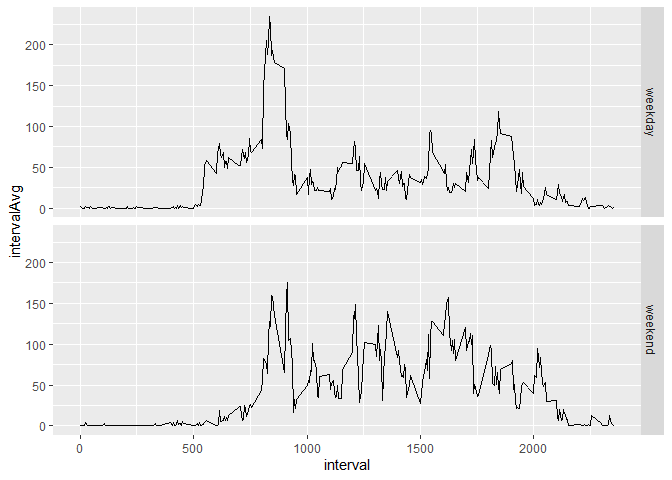
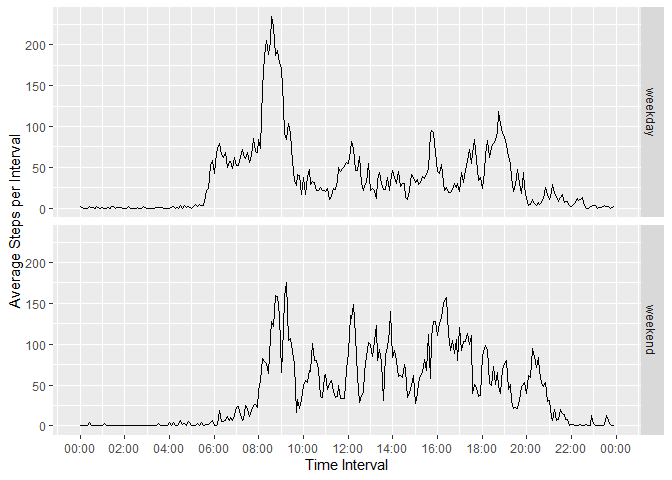
Corrected based on feedback from grading.

diff --git a/PA1_template.html b/PA1_template.html
@@ -388,6 +388,9 @@ dailySummary &lt;- summarise(fullData, dailySteps = sum(steps))
 avgDaySteps &lt;- mean(dailySummary$dailySteps, na.rm = TRUE)
 paste(&quot;Daily Average Steps: &quot;, round(avgDaySteps, 2))</code></pre>
 <pre><code>## [1] &quot;Daily Average Steps:  10766.19&quot;</code></pre>
+<p>Also what does the distribution of daily steps look like.</p>
+<pre class="r"><code>qplot(x = dailySteps, data = dailySummary)</code></pre>
[1 lines of base64/hex data omitted]
 </div>
 <div id="what-is-the-average-daily-activity-pattern" class="section level2">
 <h2>What is the average daily activity pattern?</h2>
@@ -435,7 +438,7 @@ imputedMetric &lt;- summary(imputedSummary$dailySteps)[3:4]
 xt &lt;- xtable(cbind(Raw.Data = rawMetric, Imputed.Data = imputedMetric))
 print(xt, type = &quot;html&quot;)</code></pre>
 <!-- html table generated in R 3.6.2 by xtable 1.8-4 package -->
-<!-- Fri May 15 12:28:04 2020 -->
+<!-- Sat May 16 09:55:31 2020 -->
 <table border="1">
 <tr>
 <th>
@@ -480,13 +483,15 @@ dow &lt;- NULL
 for (i in 1:length(fullData$date)) { dow[i] &lt;- dayID(fullData$date[i]) }
 fullDataDay &lt;- cbind(fullData, Weekday = dow)
 fullDataDay &lt;- group_by(fullDataDay, interval, Weekday)
-fullDataDay$interval &lt;- as_datetime(hm(fullDataDay$interval/100))
-avgWeekDay &lt;- summarise(fullDataDay, intervalAvg = mean(steps, na.rm = TRUE))</code></pre>
+avgWeekDay &lt;- summarise(fullDataDay, intervalAvg = mean(steps, na.rm = TRUE))
+avgWeekDay$interval &lt;- as_datetime(hm(avgWeekDay$interval/100))</code></pre>
 <p>Once this is done let’s compare them visually.</p>
 <pre class="r"><code>graf3 &lt;- qplot(x = interval, y = intervalAvg, data = avgWeekDay, 
-               facets = Weekday ~ ., geom = &quot;line&quot;)
+               facets = Weekday ~ ., geom = &quot;line&quot;) +
+            xlab(&quot;Time Interval&quot;) + scale_x_datetime(date_labels = &quot;%R&quot;, date_breaks = &quot;2 hours&quot;) +
+            ylab(&quot;Average Steps per Interval&quot;)
 print(graf3)</code></pre>
[2 lines of base64/hex data omitted]
 </div>
 
 

diff --git a/PA1_template.md b/PA1_template.md
@@ -37,6 +37,14 @@ paste("Daily Average Steps: ", round(avgDaySteps, 2))
 ## [1] "Daily Average Steps:  10766.19"
 ```
 
+Also what does the distribution of daily steps look like.
+
+
+```r
+qplot(x = dailySteps, data = dailySummary)
+```
+
+![](PA1_template_files/figure-html/dailyStepHist-1.png)<!-- -->
 
 ## What is the average daily activity pattern?
 Next let's review the average daily activity.
@@ -121,7 +129,7 @@ print(xt, type = "html")
 ```
 
 <!-- html table generated in R 3.6.2 by xtable 1.8-4 package -->
-<!-- Fri May 15 12:28:04 2020 -->
+<!-- Sat May 16 09:55:31 2020 -->
 <table border=1>
 <tr> <th>  </th> <th> Raw.Data </th> <th> Imputed.Data </th>  </tr>
   <tr> <td align="right"> Median </td> <td align="right"> 10765.00 </td> <td align="right"> 10766.19 </td> </tr>
@@ -142,8 +150,8 @@ dow <- NULL
 for (i in 1:length(fullData$date)) { dow[i] <- dayID(fullData$date[i]) }
 fullDataDay <- cbind(fullData, Weekday = dow)
 fullDataDay <- group_by(fullDataDay, interval, Weekday)
-fullDataDay$interval <- as_datetime(hm(fullDataDay$interval/100))
 avgWeekDay <- summarise(fullDataDay, intervalAvg = mean(steps, na.rm = TRUE))
+avgWeekDay$interval <- as_datetime(hm(avgWeekDay$interval/100))
 ```
 
 Once this is done let's compare them visually.
@@ -151,7 +159,9 @@ Once this is done let's compare them visually.
 
 ```r
 graf3 <- qplot(x = interval, y = intervalAvg, data = avgWeekDay, 
-               facets = Weekday ~ ., geom = "line")
+               facets = Weekday ~ ., geom = "line") +
+            xlab("Time Interval") + scale_x_datetime(date_labels = "%R", date_breaks = "2 hours") +
+            ylab("Average Steps per Interval")
 print(graf3)
 ```
 
